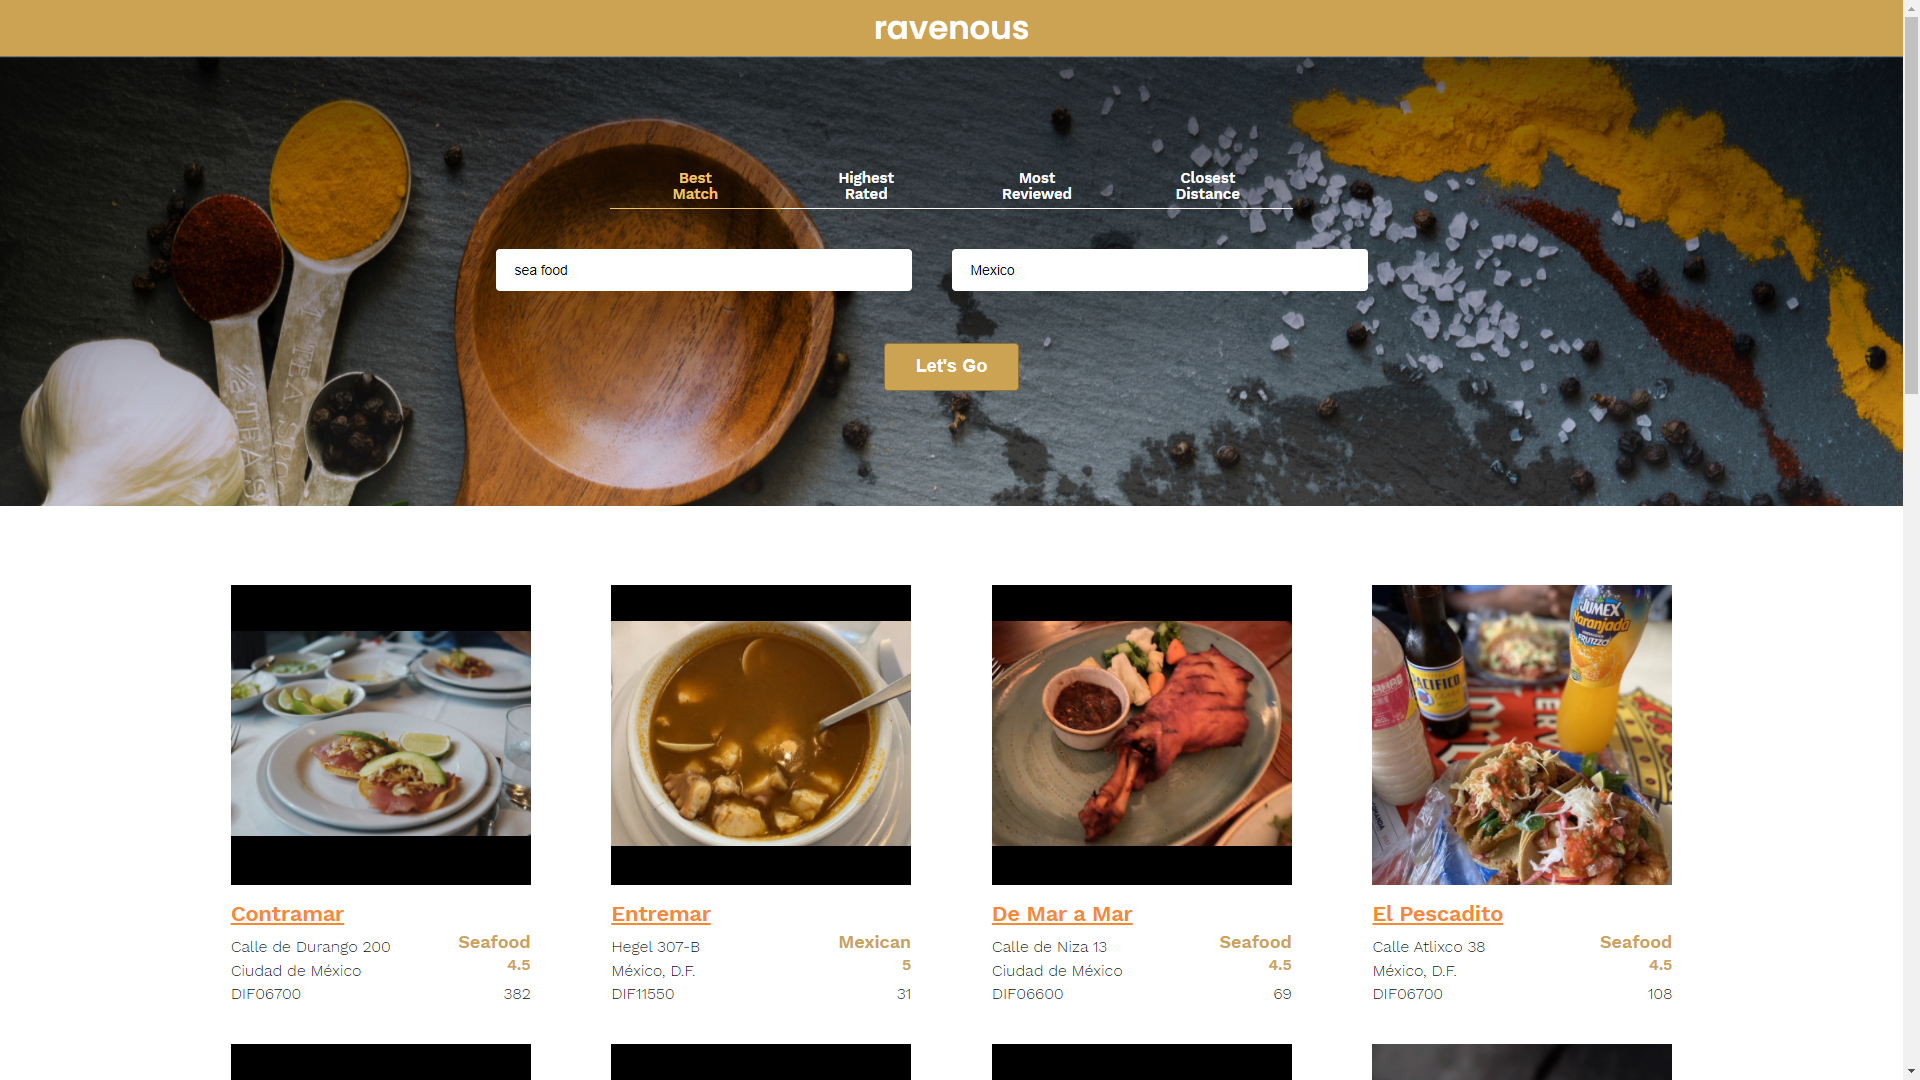
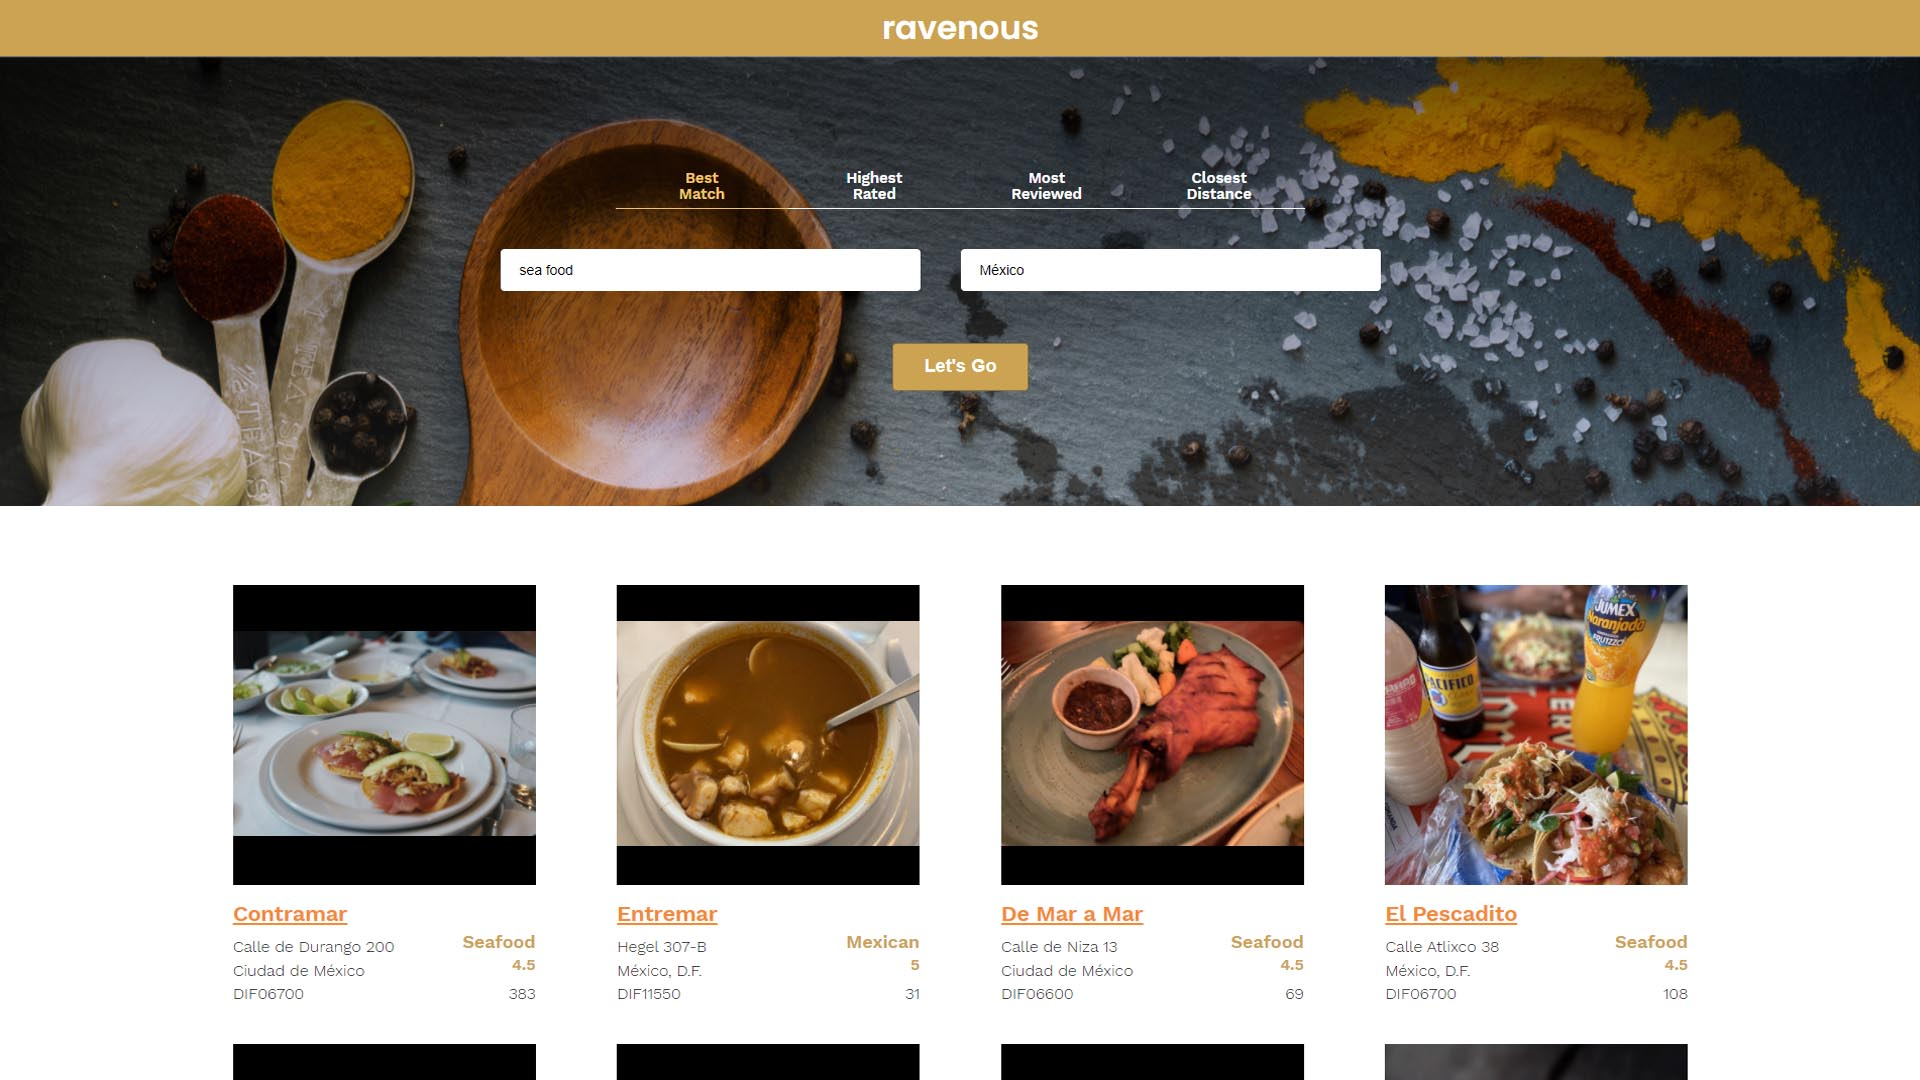
modify images compression and import

diff --git a/src/data/projects.tsx b/src/data/projects.tsx
@@ -1,7 +1,7 @@
 import React from 'react';
 //images
 import socialConejitoProject from 'assets/img/projects/Social-Conejito2.jpg';
-import ravenousProject from 'assets/img/projects/ravenousSmall.png';
+import ravenousProject from 'assets/img/projects/ravenous.jpg';
 import wanderlust from 'assets/img/projects/wanderlust.jpg';
 import codigoAventura from 'assets/img/projects/codigoAventuraSmall.png';
 import teaCozy from 'assets/img/projects/teaCozy.jpg';
